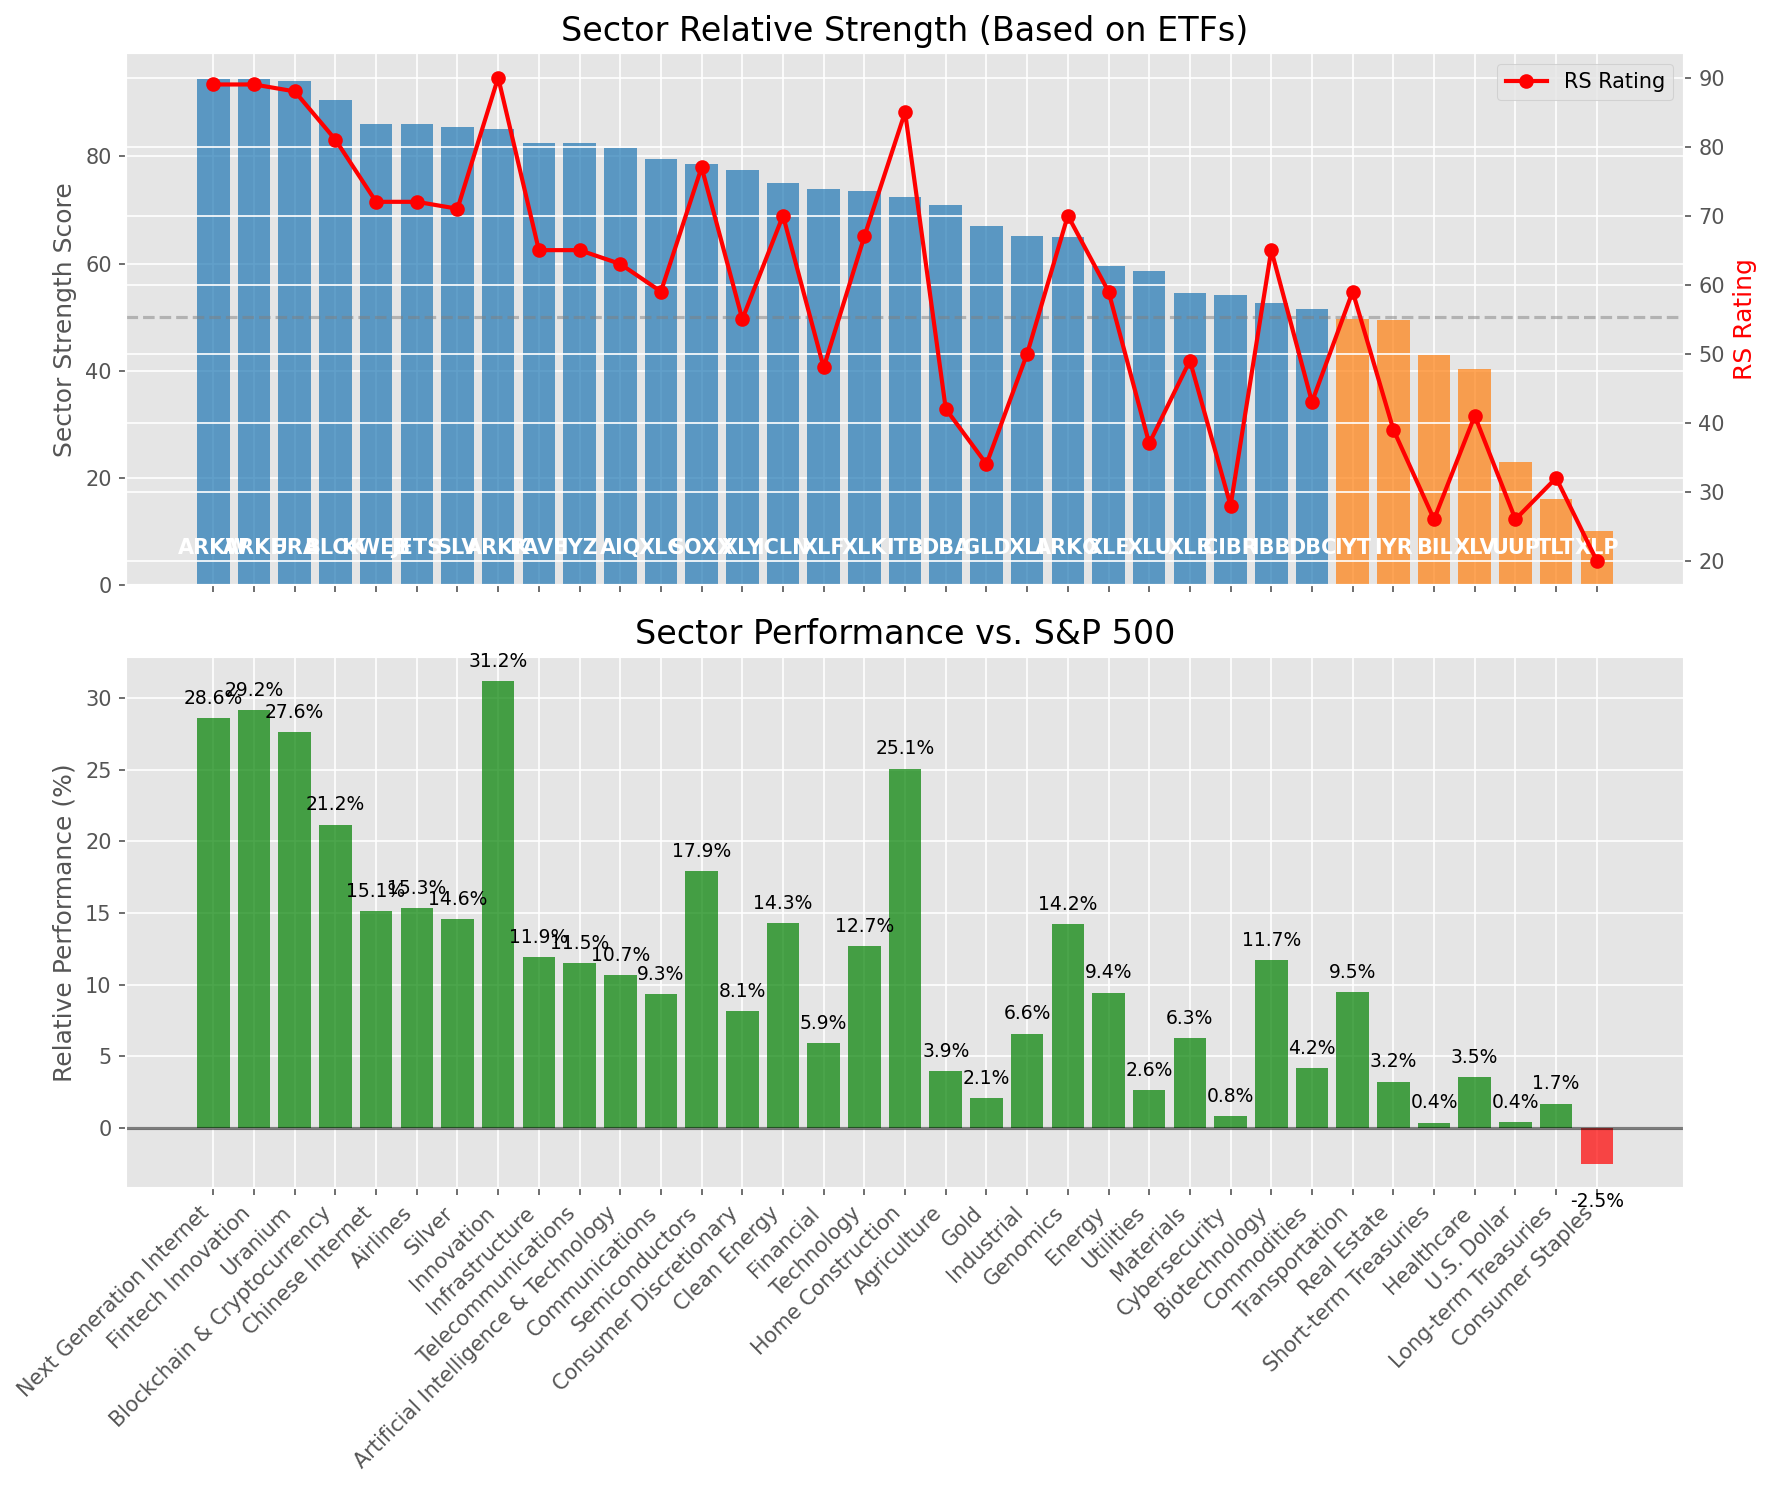
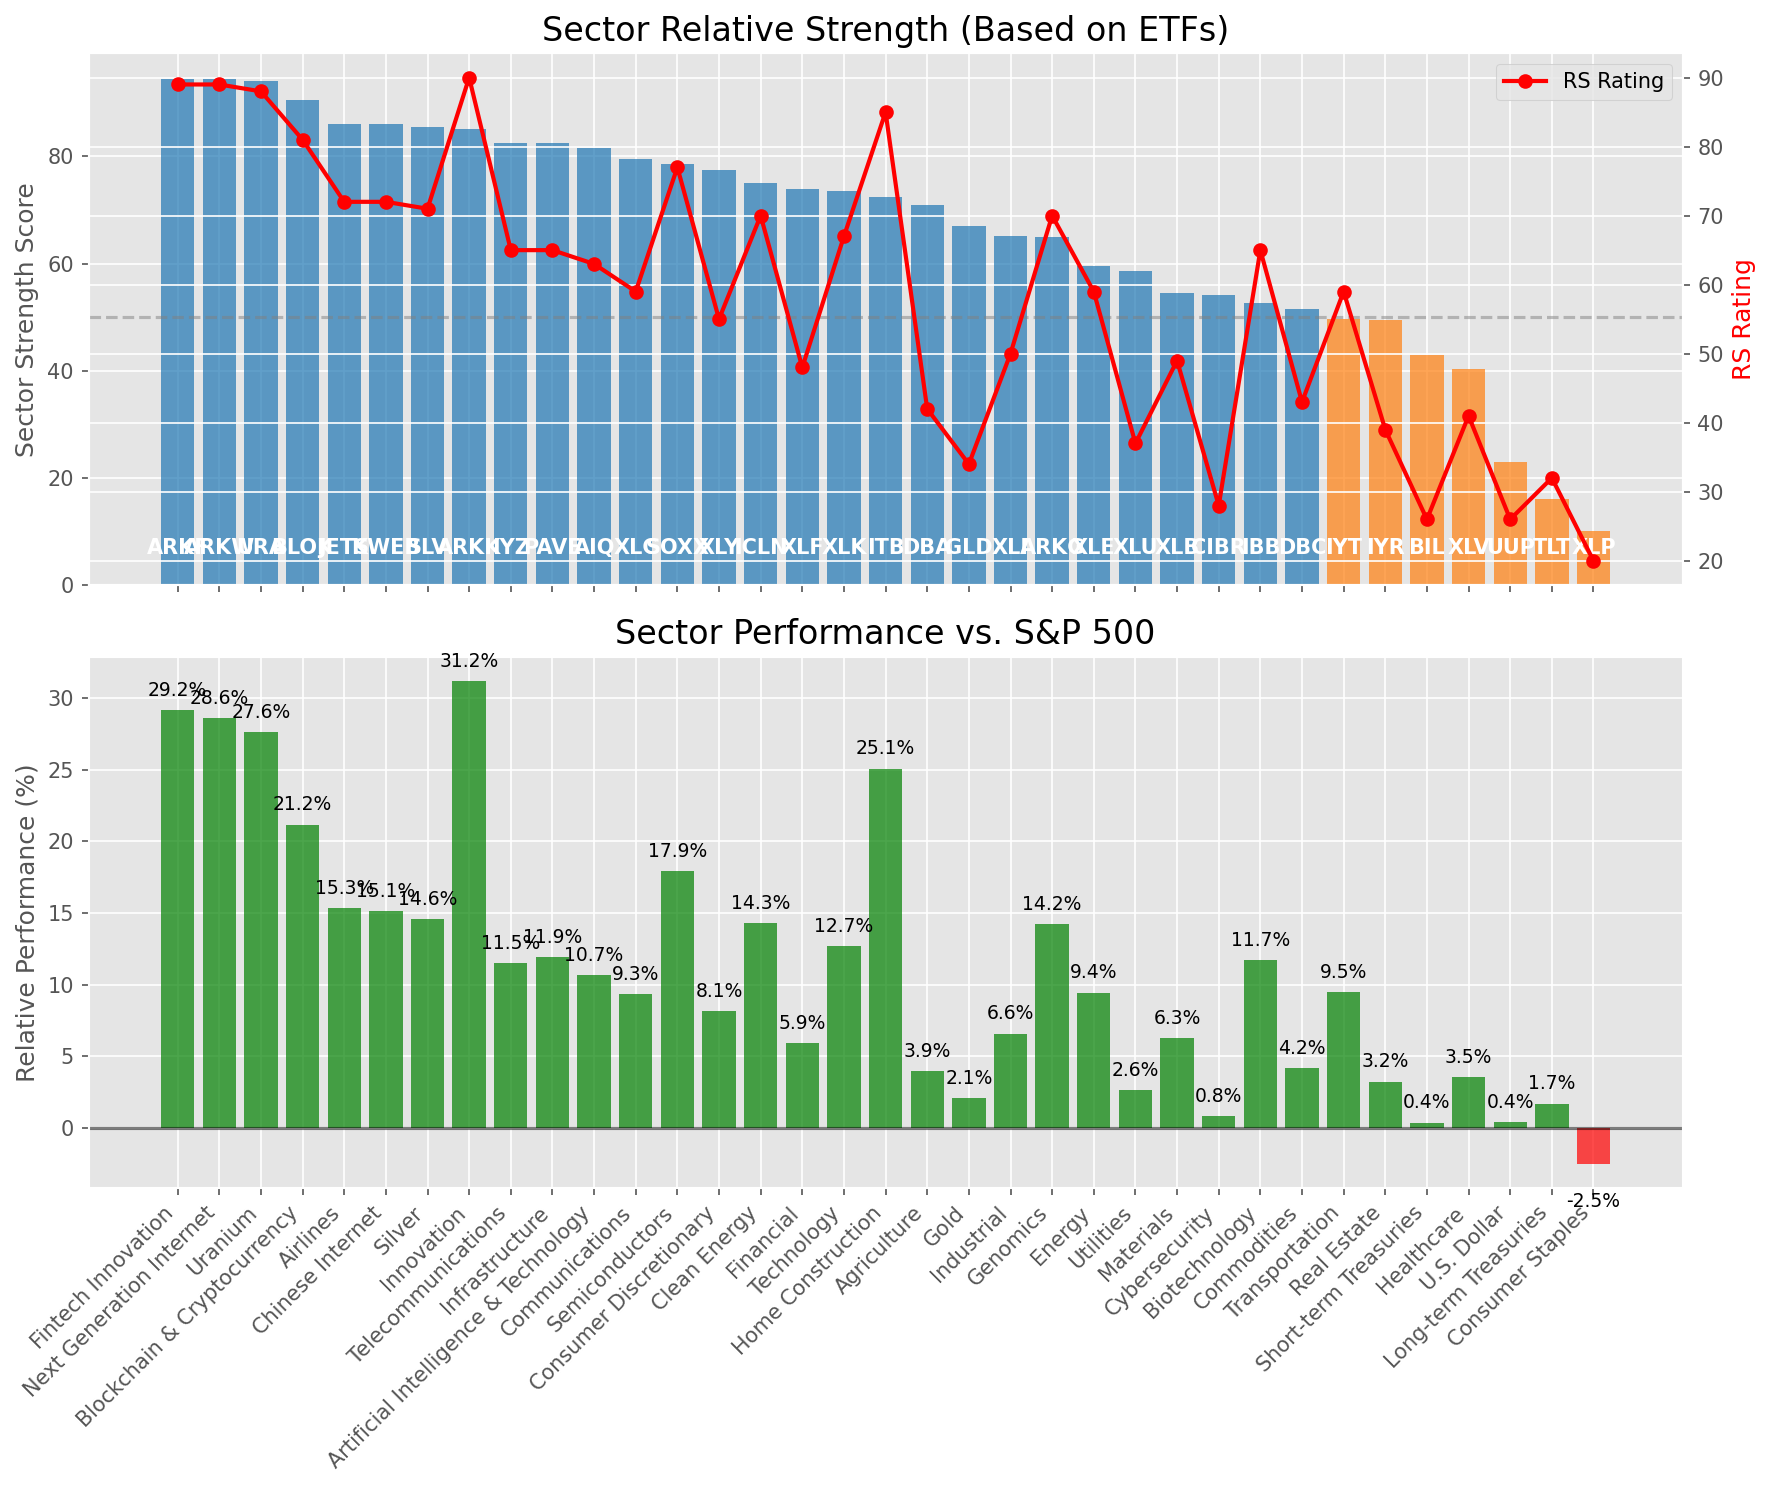
Add market report for 2025-08-29

diff --git a/oneil_relative_strength_report_2025-08-29.md b/oneil_relative_strength_report_2025-08-29.md
@@ -49,16 +49,16 @@ Based on William O'Neil's Relative Strength Methodology
 
 | ETF | Strength | RS Rating | Performance | Above Key MAs | Trend | Sector |
 |-----|----------|-----------|-------------|--------------|-------|--------|
-| [ARKW](https://www.tradingview.com/chart/?symbol=ARKW) | 94.5 | 89.0 | 28.63% | 10d ✓, 50d ✓, 200d ✓ | ↗ | Next Generation Internet |
 | [ARKF](https://www.tradingview.com/chart/?symbol=ARKF) | 94.5 | 89.0 | 29.17% | 10d ✓, 50d ✓, 200d ✓ | ↗ | Fintech Innovation |
+| [ARKW](https://www.tradingview.com/chart/?symbol=ARKW) | 94.5 | 89.0 | 28.63% | 10d ✓, 50d ✓, 200d ✓ | ↗ | Next Generation Internet |
 | [URA](https://www.tradingview.com/chart/?symbol=URA) | 94.0 | 88.0 | 27.61% | 10d ✓, 50d ✓, 200d ✓ | ↗ | Uranium |
 | [BLOK](https://www.tradingview.com/chart/?symbol=BLOK) | 90.5 | 81.0 | 21.17% | 10d ✓, 50d ✓, 200d ✓ | ↗ | Blockchain & Cryptocurrency |
-| [KWEB](https://www.tradingview.com/chart/?symbol=KWEB) | 86.0 | 72.0 | 15.14% | 10d ✓, 50d ✓, 200d ✓ | ↗ | Chinese Internet |
 | [JETS](https://www.tradingview.com/chart/?symbol=JETS) | 86.0 | 72.0 | 15.34% | 10d ✓, 50d ✓, 200d ✓ | ↗ | Airlines |
+| [KWEB](https://www.tradingview.com/chart/?symbol=KWEB) | 86.0 | 72.0 | 15.14% | 10d ✓, 50d ✓, 200d ✓ | ↗ | Chinese Internet |
 | [SLV](https://www.tradingview.com/chart/?symbol=SLV) | 85.5 | 71.0 | 14.56% | 10d ✓, 50d ✓, 200d ✓ | ↗ | Silver |
 | [ARKK](https://www.tradingview.com/chart/?symbol=ARKK) | 85.1 | 90.0 | 31.21% | 10d ✗, 50d ✓, 200d ✓ | ↗ | Innovation |
-| [PAVE](https://www.tradingview.com/chart/?symbol=PAVE) | 82.5 | 65.0 | 11.94% | 10d ✓, 50d ✓, 200d ✓ | ↗ | Infrastructure |
 | [IYZ](https://www.tradingview.com/chart/?symbol=IYZ) | 82.5 | 65.0 | 11.52% | 10d ✓, 50d ✓, 200d ✓ | ↗ | Telecommunications |
+| [PAVE](https://www.tradingview.com/chart/?symbol=PAVE) | 82.5 | 65.0 | 11.94% | 10d ✓, 50d ✓, 200d ✓ | ↗ | Infrastructure |
 | [AIQ](https://www.tradingview.com/chart/?symbol=AIQ) | 81.5 | 63.0 | 10.68% | 10d ✓, 50d ✓, 200d ✓ | ↗ | Artificial Intelligence & Technology |
 | [XLC](https://www.tradingview.com/chart/?symbol=XLC) | 79.5 | 59.0 | 9.31% | 10d ✓, 50d ✓, 200d ✓ | ↗ | Communications |
 | [SOXX](https://www.tradingview.com/chart/?symbol=SOXX) | 78.6 | 77.0 | 17.93% | 10d ✗, 50d ✓, 200d ✓ | ↗ | Semiconductors |
@@ -98,9 +98,9 @@ This table shows the relative strength metrics for different market sectors base
 
 ### **Current Sector Leadership**
 
-The current market leadership is coming from the following sectors: **Next Generation Internet, Fintech Innovation, Uranium**.
+The current market leadership is coming from the following sectors: **Fintech Innovation, Next Generation Internet, Uranium**.
 
-The **Next Generation Internet** sector (represented by **ARKW**) is showing particularly strong relative strength with an RS rating of 89.0 and performance of 28.63% vs. the S&P 500. This sector is trading above its 10-day, 50-day, 200-day moving average(s). Investors should consider focusing on high RS stocks within these leading sectors for potential outperformance.
+The **Fintech Innovation** sector (represented by **ARKF**) is showing particularly strong relative strength with an RS rating of 89.0 and performance of 29.17% vs. the S&P 500. This sector is trading above its 10-day, 50-day, 200-day moving average(s). Investors should consider focusing on high RS stocks within these leading sectors for potential outperformance.
 
 ---
 
@@ -110,25 +110,25 @@ The following 48 stocks show exceptional relative strength:
 
 | RS Rating | Buy Score | Current Price | Chart | Name | Ticker |
 |-----------|-----------|---------------|-------|------|--------|
+| 100 | 100 | $71.14 | [Chart](https://www.tradingview.com/chart/?symbol=MP) | MP Materials Corp. | MP |
 | 100 | 100 | $185.60 | [Chart](https://www.tradingview.com/chart/?symbol=FUTU) | Futu Holdings Limited American Depositary Shares | FUTU |
 | 100 | 100 | $123.06 | [Chart](https://www.tradingview.com/chart/?symbol=CRDO) | Credo Technology Group Holding Ltd Ordinary Shares | CRDO |
-| 100 | 100 | $71.14 | [Chart](https://www.tradingview.com/chart/?symbol=MP) | MP Materials Corp. | MP |
 | 100 | 100 | $48.60 | [Chart](https://www.tradingview.com/chart/?symbol=RKLB) | Rocket Lab Corporation Common Stock | RKLB |
 | 99 | 100 | $194.75 | [Chart](https://www.tradingview.com/chart/?symbol=CLS) | Celestica, Inc. | CLS |
-| 99 | 100 | $27.68 | [Chart](https://www.tradingview.com/chart/?symbol=LQDA) | Liquidia Corporation Common Stock | LQDA |
 | 99 | 100 | $62.88 | [Chart](https://www.tradingview.com/chart/?symbol=CELH) | Celsius Holdings, Inc. Common Stock | CELH |
+| 99 | 100 | $27.68 | [Chart](https://www.tradingview.com/chart/?symbol=LQDA) | Liquidia Corporation Common Stock | LQDA |
 | 98 | 100 | $58.94 | [Chart](https://www.tradingview.com/chart/?symbol=TPC) | Tutor Perini Corporation | TPC |
 | 98 | 100 | $36.82 | [Chart](https://www.tradingview.com/chart/?symbol=CPS) | Cooper-Standard Automotive Inc. | CPS |
 | 97 | 100 | $44.57 | [Chart](https://www.tradingview.com/chart/?symbol=TTMI) | TTM Technologies Inc | TTMI |
 | 97 | 100 | $378.92 | [Chart](https://www.tradingview.com/chart/?symbol=TLN) | Talen Energy Corporation Common Stock | TLN |
 | 96 | 100 | $53.21 | [Chart](https://www.tradingview.com/chart/?symbol=REVG) | REV Group, Inc. | REVG |
 | 96 | 100 | $90.44 | [Chart](https://www.tradingview.com/chart/?symbol=LIF) | Life360, Inc. Common Stock | LIF |
-| 94 | 100 | $124.59 | [Chart](https://www.tradingview.com/chart/?symbol=RBLX) | Roblox Corporation | RBLX |
 | 94 | 100 | $363.22 | [Chart](https://www.tradingview.com/chart/?symbol=RCL) | Royal Caribbean Group | RCL |
+| 94 | 100 | $124.59 | [Chart](https://www.tradingview.com/chart/?symbol=RBLX) | Roblox Corporation | RBLX |
 | 94 | 100 | $63.62 | [Chart](https://www.tradingview.com/chart/?symbol=VIK) | Viking Holdings Ltd | VIK |
 | 93 | 100 | $117.52 | [Chart](https://www.tradingview.com/chart/?symbol=SANM) | Sanmina  Corp | SANM |
-| 92 | 100 | $23.62 | [Chart](https://www.tradingview.com/chart/?symbol=BZ) | KANZHUN LIMITED American Depository Shares | BZ |
 | 92 | 100 | $67.55 | [Chart](https://www.tradingview.com/chart/?symbol=MRCY) | Mercury Systems Inc. | MRCY |
+| 92 | 100 | $23.62 | [Chart](https://www.tradingview.com/chart/?symbol=BZ) | KANZHUN LIMITED American Depository Shares | BZ |
 | 91 | 100 | $97.38 | [Chart](https://www.tradingview.com/chart/?symbol=LLYVK) | Liberty Media Corporation Series C Liberty Live Common Stock | LLYVK |
 | 91 | 100 | $99.50 | [Chart](https://www.tradingview.com/chart/?symbol=TPB) | Turning Point Brands, Inc. | TPB |
 | 91 | 100 | $50.26 | [Chart](https://www.tradingview.com/chart/?symbol=LTM) | LATAM Airlines Group S.A. American Depositary Shares (each representing two thousand (2,000) shares of Common Stock) | LTM |
@@ -168,25 +168,25 @@ The following 87 stocks show deteriorating relative strength:
 
 | RS Rating | Sell Score | Current Price | Chart | Name | Ticker |
 |-----------|------------|---------------|-------|------|--------|
-| 1 | 100 | $20.48 | [Chart](https://www.tradingview.com/chart/?symbol=ZSL) | ProShares UltraShort Silver | ZSL |
 | 1 | 100 | $14.94 | [Chart](https://www.tradingview.com/chart/?symbol=KRNT) | Kornit Digital Ltd. | KRNT |
-| 2 | 100 | $24.23 | [Chart](https://www.tradingview.com/chart/?symbol=TECS) | Direxion Daily Technology Bear 3x Shares | TECS |
-| 2 | 100 | $21.57 | [Chart](https://www.tradingview.com/chart/?symbol=CLW) | Clearwater Paper Corporation | CLW |
+| 1 | 100 | $20.48 | [Chart](https://www.tradingview.com/chart/?symbol=ZSL) | ProShares UltraShort Silver | ZSL |
 | 2 | 100 | $36.27 | [Chart](https://www.tradingview.com/chart/?symbol=VXX) | iPath Series B S&P 500 VIX Short-Term Futures ETN | VXX |
+| 2 | 100 | $21.57 | [Chart](https://www.tradingview.com/chart/?symbol=CLW) | Clearwater Paper Corporation | CLW |
+| 2 | 100 | $24.23 | [Chart](https://www.tradingview.com/chart/?symbol=TECS) | Direxion Daily Technology Bear 3x Shares | TECS |
 | 3 | 100 | $36.35 | [Chart](https://www.tradingview.com/chart/?symbol=TWM) | ProShares UltraShort Russell2000 | TWM |
 | 3 | 100 | $45.08 | [Chart](https://www.tradingview.com/chart/?symbol=ONON) | On Holding AG | ONON |
-| 4 | 100 | $17.53 | [Chart](https://www.tradingview.com/chart/?symbol=DJT) | Trump Media & Technology Group Corp. Common Stock | DJT |
+| 4 | 100 | $11.27 | [Chart](https://www.tradingview.com/chart/?symbol=CHPT) | ChargePoint Holdings, Inc. | CHPT |
 | 4 | 100 | $37.95 | [Chart](https://www.tradingview.com/chart/?symbol=SDOW) | ProShares UltraPro Short Dow 30 | SDOW |
 | 4 | 100 | $373.32 | [Chart](https://www.tradingview.com/chart/?symbol=FDS) | Factset Research Systems | FDS |
-| 4 | 100 | $11.27 | [Chart](https://www.tradingview.com/chart/?symbol=CHPT) | ChargePoint Holdings, Inc. | CHPT |
+| 4 | 100 | $17.53 | [Chart](https://www.tradingview.com/chart/?symbol=DJT) | Trump Media & Technology Group Corp. Common Stock | DJT |
 | 5 | 100 | $20.24 | [Chart](https://www.tradingview.com/chart/?symbol=ERY) | Direxion Daily Energy Bear 2X Shares | ERY |
 | 6 | 100 | $47.42 | [Chart](https://www.tradingview.com/chart/?symbol=EXAS) | Exact Sciences Corp | EXAS |
 | 7 | 100 | $16.37 | [Chart](https://www.tradingview.com/chart/?symbol=BTAL) | AGF U.S. Market Neutral Anti-Beta Fund | BTAL |
-| 7 | 100 | $24.87 | [Chart](https://www.tradingview.com/chart/?symbol=GDEN) | Golden Entertainment, Inc. Common Stock | GDEN |
 | 7 | 100 | $19.12 | [Chart](https://www.tradingview.com/chart/?symbol=AVBP) | ArriVent BioPharma, Inc. Common Stock | AVBP |
+| 7 | 100 | $24.87 | [Chart](https://www.tradingview.com/chart/?symbol=GDEN) | Golden Entertainment, Inc. Common Stock | GDEN |
+| 9 | 100 | $356.70 | [Chart](https://www.tradingview.com/chart/?symbol=ADBE) | Adobe Inc. | ADBE |
 | 9 | 100 | $58.19 | [Chart](https://www.tradingview.com/chart/?symbol=ATKR) | Atkore Inc. | ATKR |
 | 9 | 100 | $100.00 | [Chart](https://www.tradingview.com/chart/?symbol=BNTX) | BioNTech SE American Depositary Share | BNTX |
-| 9 | 100 | $356.70 | [Chart](https://www.tradingview.com/chart/?symbol=ADBE) | Adobe Inc. | ADBE |
 | 11 | 100 | $24.24 | [Chart](https://www.tradingview.com/chart/?symbol=WSC) | WillScot Holdings Corporation Class A Common Stock | WSC |
 | 11 | 100 | $22.72 | [Chart](https://www.tradingview.com/chart/?symbol=JANX) | Janux Therapeutics, Inc. Common Stock | JANX |
 | 12 | 100 | $38.48 | [Chart](https://www.tradingview.com/chart/?symbol=SH) | ProShares Short S&P500 | SH |
@@ -229,9 +229,9 @@ The following 87 stocks show deteriorating relative strength:
 | 21 | 84 | $79.43 | [Chart](https://www.tradingview.com/chart/?symbol=IR) | Ingersoll Rand Inc. Common Stock | IR |
 | 23 | 83 | $46.36 | [Chart](https://www.tradingview.com/chart/?symbol=TRUP) | Trupanion, Inc. | TRUP |
 | 23 | 83 | $56.89 | [Chart](https://www.tradingview.com/chart/?symbol=SLG) | SL Green Realty Corp. | SLG |
-| 25 | 83 | $36.37 | [Chart](https://www.tradingview.com/chart/?symbol=APGE) | Apogee Therapeutics, Inc. Common Stock | APGE |
 | 19 | 82 | $82.20 | [Chart](https://www.tradingview.com/chart/?symbol=AGO) | Assured Guaranty, LTD | AGO |
 | 22 | 82 | $70.19 | [Chart](https://www.tradingview.com/chart/?symbol=PYPL) | PayPal Holdings, Inc. Common Stock | PYPL |
+| 25 | 82 | $36.37 | [Chart](https://www.tradingview.com/chart/?symbol=APGE) | Apogee Therapeutics, Inc. Common Stock | APGE |
 | 26 | 81 | $20.92 | [Chart](https://www.tradingview.com/chart/?symbol=BKLN) | Invesco Senior Loan ETF | BKLN |
 | 28 | 80 | $25.87 | [Chart](https://www.tradingview.com/chart/?symbol=WY) | Weyerhaeuser Company | WY |
 | 21 | 79 | $457.45 | [Chart](https://www.tradingview.com/chart/?symbol=KNSL) | Kinsale Capital Group, Inc. | KNSL |
